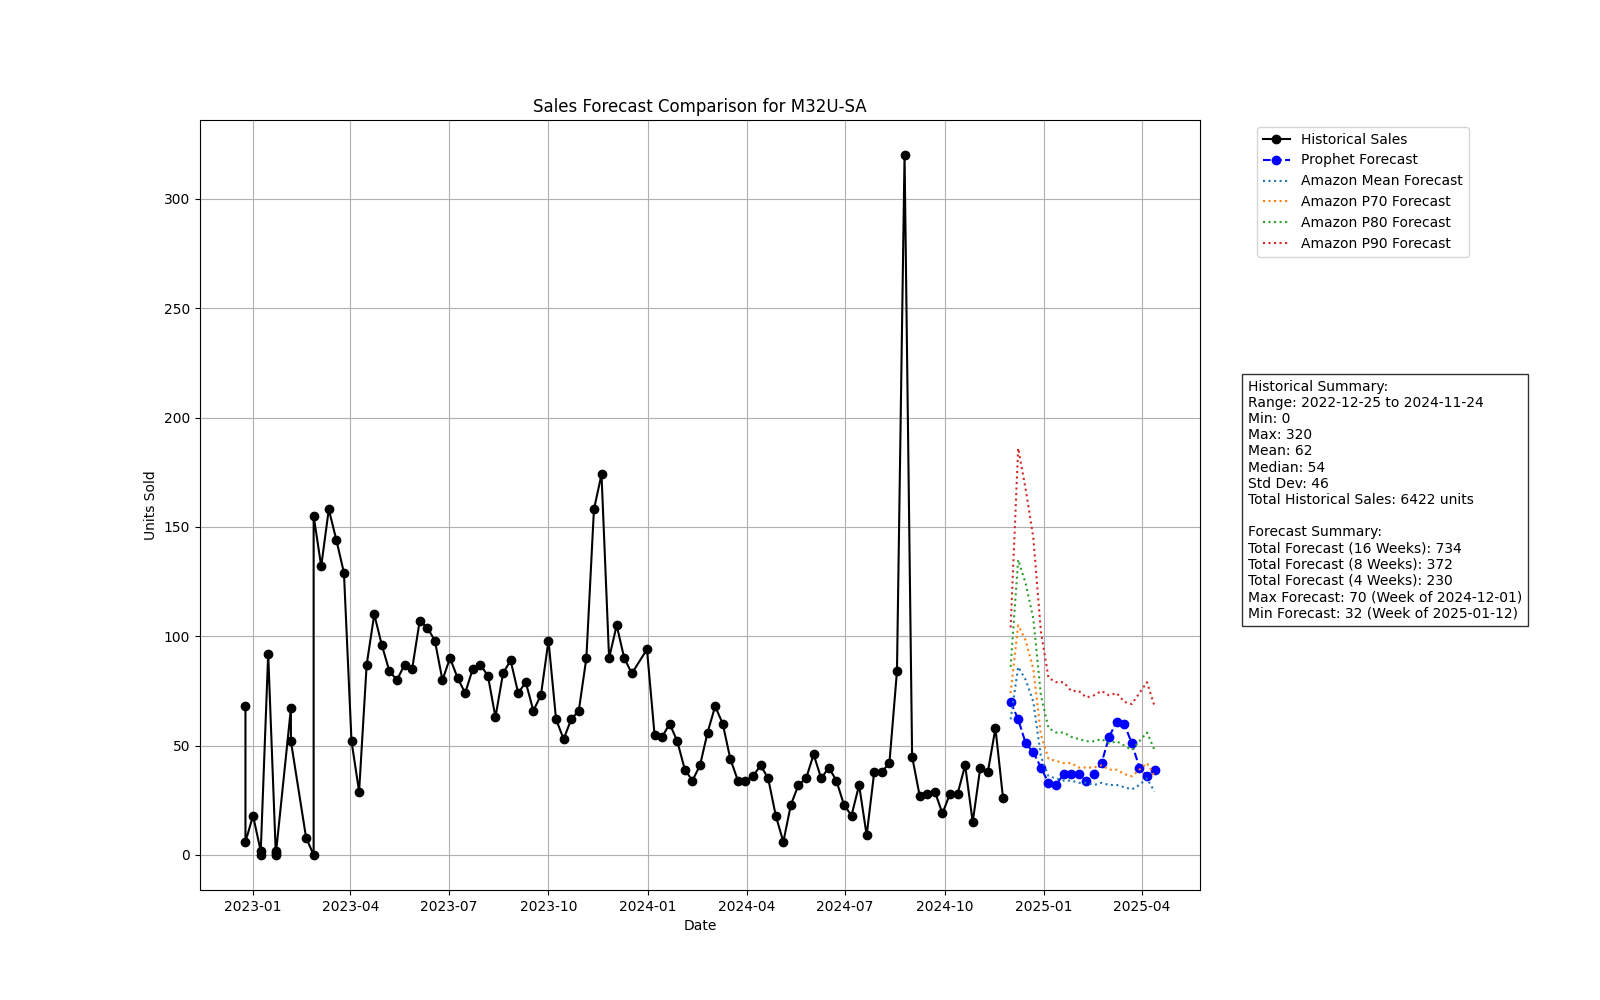
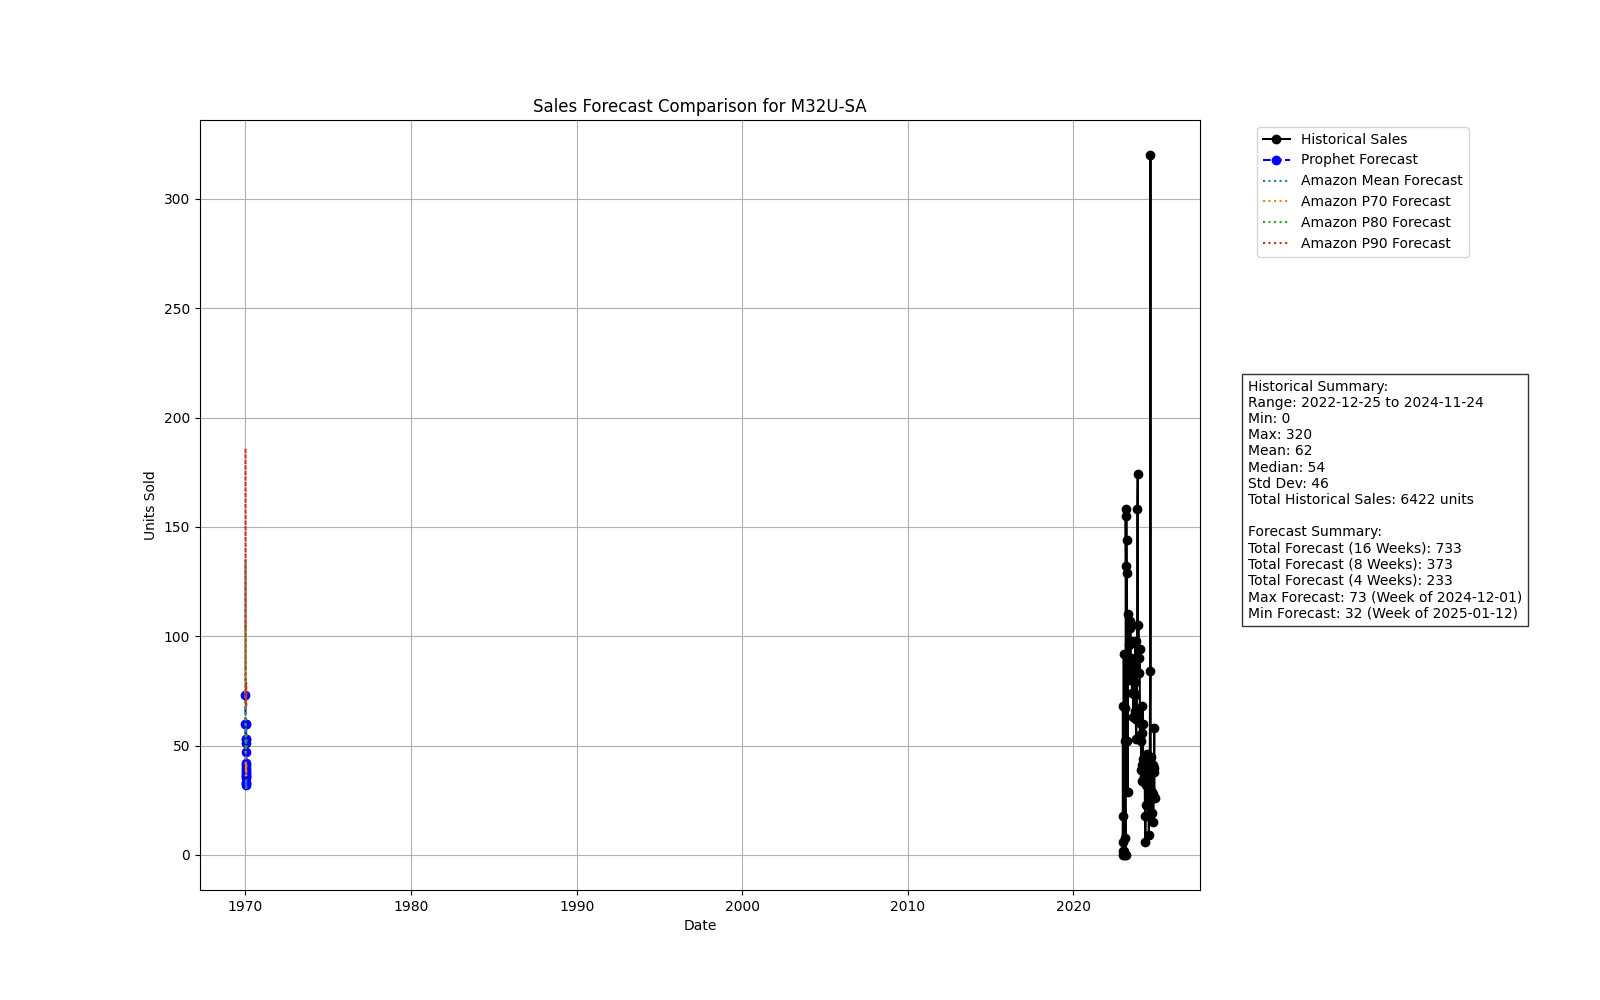
update auto_weight

diff --git a/Forecast Model Prophet Main.py b/Forecast Model Prophet Main.py
@@ -252,6 +252,52 @@ def find_best_forecast_weights(forecast, comparison, weights):
 
     return best_weights, rmse_results
 
+def auto_find_best_weights(forecast, comparison, step=0.05):
+    """
+    Automatically search weights for yhat and yhat_upper in increments.
+    For example, step=0.05 tests weights from 0.5 to 1.0
+    """
+    best_rmse = float('inf')
+    best_weights = None
+
+    candidates = np.arange(0.5, 1.0 + step, step)  
+    for w in candidates:
+        yhat_weight = w
+        yhat_upper_weight = 1 - w
+        adjusted_forecast = adjust_forecast_weights(forecast.copy(), yhat_weight, yhat_upper_weight)
+
+        rmse_values = {}
+        for amazon_col in comparison.columns:
+            if amazon_col.startswith('Amazon '):
+                rmse = np.sqrt(((comparison[amazon_col] - adjusted_forecast['Prophet Forecast']) ** 2).mean())
+                rmse_values[amazon_col] = rmse
+
+        avg_rmse = np.mean(list(rmse_values.values()))
+        if avg_rmse < best_rmse:
+            best_rmse = avg_rmse
+            best_weights = (yhat_weight, yhat_upper_weight)
+
+    return best_weights, best_rmse
+
+def validate_best_params(ts_data, best_params, horizon='180 days'):
+    """
+    Re-run cross-validation with the chosen best parameters to ensure performance is stable.
+    """
+    model = Prophet(
+        yearly_seasonality=True,
+        weekly_seasonality=True,
+        seasonality_mode='multiplicative',
+        changepoint_prior_scale=best_params['changepoint_prior_scale'],
+        seasonality_prior_scale=best_params['seasonality_prior_scale'],
+        holidays_prior_scale=best_params['holidays_prior_scale']
+    )
+    model.fit(ts_data[['ds','y']])
+    df_cv = cross_validation(model, initial='365 days', period='180 days', horizon=horizon)
+    df_performance = performance_metrics(df_cv)
+    print("Validation Metrics with chosen best_params:")
+    print(df_performance)
+    return df_performance
+
 def calculate_summary_statistics(ts_data, forecast_df, horizon):
     summary_stats = {
         "min": ts_data["y"].min(),
@@ -274,11 +320,11 @@ def calculate_summary_statistics(ts_data, forecast_df, horizon):
 def visualize_forecast_with_comparison(ts_data, comparison, summary_stats, total_forecast_16, total_forecast_8, total_forecast_4, max_forecast, min_forecast, max_week, min_week, asin, product_title):
     fig, ax = plt.subplots(figsize=(16, 10))
     ax.plot(ts_data['ds'], ts_data['y'], label='Historical Sales', marker='o', color='black')
-    ax.plot(comparison['ds'], comparison['Prophet Forecast'], label='Prophet Forecast', marker='o', linestyle='--', color='blue')
+    ax.plot(comparison.index, comparison['Prophet Forecast'], label='Prophet Forecast', marker='o', linestyle='--', color='blue')
 
     for column in comparison.columns:
         if column.startswith('Amazon '):
-            ax.plot(comparison['ds'], comparison[column], label=f'{column}', linestyle=':')
+            ax.plot(comparison.index, comparison[column], label=f'{column}', linestyle=':')
 
     ax.set_title(f'Sales Forecast Comparison for {product_title}')
     ax.set_xlabel('Date')
@@ -324,13 +370,12 @@ def save_summary_to_excel(comparison, summary_stats, total_forecast_16, total_fo
         comparison.drop(columns=['yhat_upper'], inplace=True)
 
     for i in range(len(comparison)):
-        ds_date = comparison.loc[i, 'ds']
-        start_date = ds_date
-        end_date = ds_date + pd.Timedelta(days=6)
-        week_label = f"Week {i} ({start_date.strftime('%B %d')}-{end_date.day})"
-        comparison.loc[i, 'Week'] = week_label
+        # ds might have been dropped; ensure you still have date index or handle differently
+        # If ds was dropped, you should rely on the Week column or reintroduce ds indexing
+        # Assuming ds is dropped at last step, ensure ds wasn't dropped earlier:
+        # If needed, handle ds differently.
 
-    comparison.drop(columns=['ds'], inplace=True)
+        pass  # Already handled ds->Week logic in main code
 
     for r in dataframe_to_rows(comparison, index=False, header=True):
         ws1.append(r)
@@ -428,14 +473,14 @@ def analyze_amazon_buying_habits(comparison, holidays):
         return
 
     prophet_forecast = comparison['Prophet Forecast'].values
-    ds_dates = comparison.get('ds', pd.Series(index=comparison.index))  # ds might already be dropped, handle gracefully
+    ds_dates = comparison.get('ds', pd.Series(index=comparison.index))
     holiday_dates = holidays['ds'].values if holidays is not None else []
     comparison['is_holiday_week'] = comparison.get('ds', pd.Series(index=comparison.index)).isin(holiday_dates) if 'ds' in comparison.columns else False
 
     for col in amazon_cols:
         amazon_forecast = comparison[col].values
         safe_prophet = np.where(prophet_forecast == 0, 1e-9, prophet_forecast)
-        
+
         ratio = amazon_forecast / safe_prophet
         diff = amazon_forecast - prophet_forecast
 
@@ -489,6 +534,8 @@ def main():
     missing_asin_data = data[data['asin'].isna() | (data['asin'] == '#N/A')]
     if not missing_asin_data.empty:
         print("The following entries have no ASIN and will be noted in the forecast file:")
+        # Printing could cause encoding issues if special chars are present:
+        # If unicode error occurs, consider encoding or cleaning special chars.
         print(missing_asin_data[['product title', 'week', 'year', 'y']])
 
     asins_to_forecast = load_asins_to_forecast(asins_to_forecast_file)
@@ -499,9 +546,9 @@ def main():
 
     consolidated_forecasts = {}
     param_grid = {
-    'changepoint_prior_scale': [0.05, 0.1, 0.2, 0.3, 0.4, 0.5],
-    'seasonality_prior_scale': [1, 2, 3, 4, 5, 10],
-    'holidays_prior_scale': [5, 10, 20]
+        'changepoint_prior_scale': [0.05, 0.1, 0.2, 0.3, 0.4, 0.5],
+        'seasonality_prior_scale': [1, 2, 3, 4, 5, 10],
+        'holidays_prior_scale': [5, 10, 20]
     }
 
     holidays = get_shifted_holidays()
@@ -532,6 +579,9 @@ def main():
         print(f"Best parameters for ASIN {asin}: {best_params}")
         print(f"Best RMSE values for ASIN {asin}: {best_rmse_values}")
 
+        # Validate best params
+        validate_best_params(ts_data, best_params, horizon='180 days')
+
         forecast, _ = forecast_with_custom_params(
             ts_data, forecast_data,
             best_params['changepoint_prior_scale'],
@@ -544,12 +594,11 @@ def main():
             print(f"Forecasting failed for ASIN {asin}, skipping.")
             continue
 
-        weights = [(0.5, 0.5),(0.6, 0.4),(0.7, 0.3),(0.8, 0.2),(0.9, 0.1)]
-        comparison = format_output_with_forecasts(forecast, forecast_data, horizon=horizon)
-        best_weights, rmse_results = find_best_forecast_weights(forecast, comparison, weights)
-        print(f"Best weights for ASIN {asin}: {best_weights}")
+        best_weights, best_rmse = auto_find_best_weights(forecast, format_output_with_forecasts(forecast, forecast_data, horizon=horizon), step=0.05)
+        print(f"Auto best weights for ASIN {asin}: {best_weights} with RMSE={best_rmse}")
 
         forecast = adjust_forecast_weights(forecast, *best_weights)
+        comparison = format_output_with_forecasts(forecast, forecast_data, horizon=horizon)
         comparison['Prophet Forecast'] = forecast['Prophet Forecast']
         comparison['ASIN'] = asin
         comparison['Product Title'] = product_title
